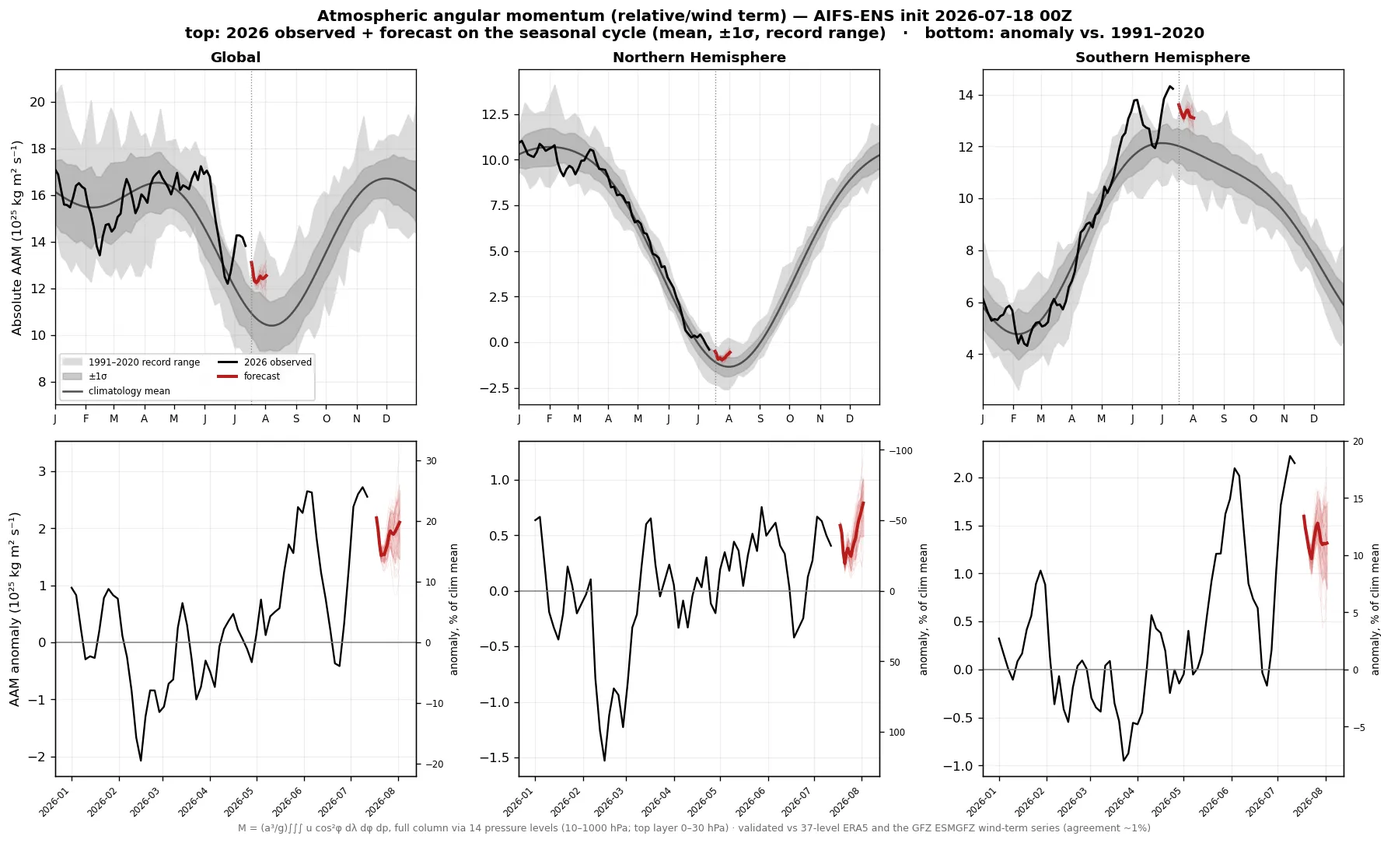
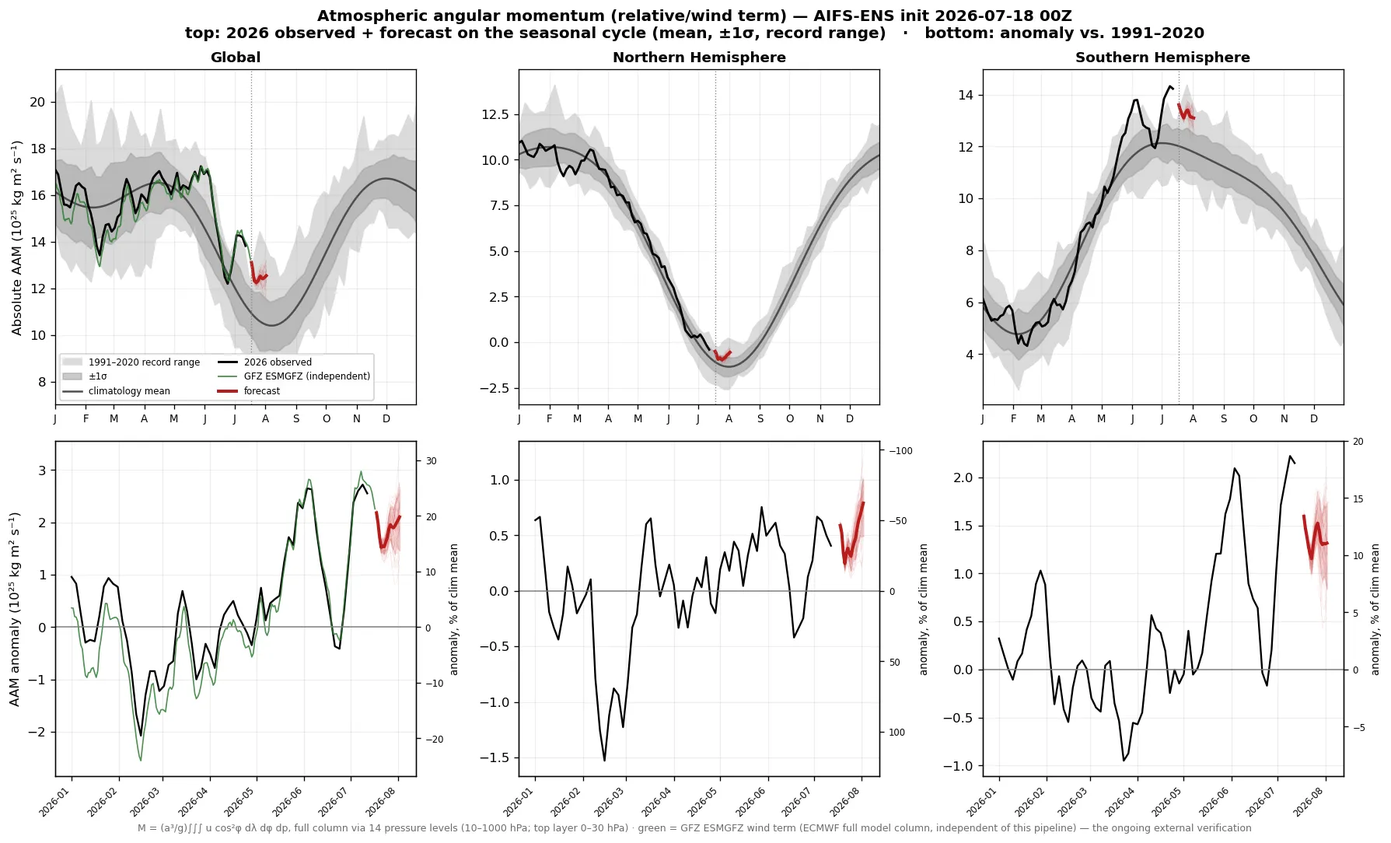
AAM figure: GFZ ESMGFZ wind-term overlay as permanent external verification
Green trace = daily-mean M_r from GFZ's operational effective-AAM series
(ECMWF full model column, fetched fresh each run, cached fallback), on the
global absolute and anomaly panels. 2026 agreement within ±0.5e25.

diff --git a/enso-analogs.html b/enso-analogs.html
@@ -564,7 +564,7 @@
         <h2>This Event vs. 1997, 2015 &amp; 2023</h2>
         <p>Niño-3.4 evolution (7-day running mean) through each event's development year and the next. Bold lines are <b>RONI</b>, the relative index (Niño-3.4 minus the 20&deg;S&ndash;20&deg;N tropical-mean anomaly), which removes the rising warming background so events decades apart are comparable; faint dotted lines are the raw <b>ONI</b> for reference. The current event is red. Note how 2015's record ONI shrinks toward 1997 once the background is removed.</p>
       </div>
-      <div class="img-wrap"><img src="assets/sst/events_nino34.webp?v=375dc67946eb" alt="Niño-3.4 RONI vs ONI evolution: current event vs 1997/2015/2023" loading="lazy"></div>
+      <div class="img-wrap"><img src="assets/sst/events_nino34.webp?v=49ed31b672d5" alt="Niño-3.4 RONI vs ONI evolution: current event vs 1997/2015/2023" loading="lazy"></div>
       <div class="chart-card-footer"><span class="chart-sources">OISST v2.1 daily &middot; 7-day mean &middot; RONI = Niño-3.4 &minus; 20&deg;S&ndash;20&deg;N mean</span></div>
     </div>
 
@@ -574,7 +574,7 @@
         <h2>El Niño Flavor: Niño Regions vs. Analogs</h2>
         <p>Relative Niño-1+2 / 3 / 3.4 / 4 anomalies (7-day mean, each minus the 20&deg;S&ndash;20&deg;N tropical mean) at the same calendar day as the latest data, for the current event and the three analogs. Removing the tropical background makes the regions comparable across events; strong eastern (1+2, 3) relative to central (4) marks an East-Pacific-flavored event.</p>
       </div>
-      <div class="img-wrap"><img src="assets/sst/events_bars.webp?v=375dc67946eb" alt="Relative Niño-region anomalies, current event vs analogs" loading="lazy"></div>
+      <div class="img-wrap"><img src="assets/sst/events_bars.webp?v=49ed31b672d5" alt="Relative Niño-region anomalies, current event vs analogs" loading="lazy"></div>
       <div class="chart-card-footer"><span class="chart-sources">OISST v2.1 daily &middot; 7-day mean &middot; relative to 20&deg;S&ndash;20&deg;N mean</span></div>
     </div>
 
@@ -584,7 +584,7 @@
         <h2>Matching-Phase SST Anomaly Maps</h2>
         <p>Relative SST anomaly (the area-weighted global-mean anomaly removed from each map) for the latest available week vs. the same calendar week in 1997, 2015 and 2023. Stripping the global mean removes the secular warming trend, so the ENSO spatial pattern is comparable across events that sat on very different baselines.</p>
       </div>
-      <div class="img-wrap"><img src="assets/sst/events_maps.webp?v=375dc67946eb" alt="Matching-phase relative SST anomaly maps (global-mean removed)" loading="lazy"></div>
+      <div class="img-wrap"><img src="assets/sst/events_maps.webp?v=49ed31b672d5" alt="Matching-phase relative SST anomaly maps (global-mean removed)" loading="lazy"></div>
       <div class="chart-card-footer"><span class="chart-sources">OISST v2.1 daily &middot; 7-day mean &middot; global-mean removed</span></div>
     </div>
 
@@ -594,7 +594,7 @@
         <h2>Subsurface Heat Content vs. Analogs</h2>
         <p>Equatorial Pacific upper-ocean (0&ndash;300 m) temperature anomaly (a heat-content proxy that leads the surface) through each event's development year and the next, current (bold red) overlaid on 1997, 2015 and 2023. The subsurface warm reservoir is the fuel for El Ni&ntilde;o; watch whether the current build-up keeps pace with the analogs.</p>
       </div>
-      <div class="img-wrap"><img src="assets/sst/subsurface_events_hc.webp?v=375dc67946eb" alt="Equatorial 0–300 m temperature-anomaly evolution: current vs 1997/2015/2023" loading="lazy"></div>
+      <div class="img-wrap"><img src="assets/sst/subsurface_events_hc.webp?v=49ed31b672d5" alt="Equatorial 0–300 m temperature-anomaly evolution: current vs 1997/2015/2023" loading="lazy"></div>
       <div class="chart-card-footer"><span class="chart-sources">NOAA/PMEL TAO/TRITON moorings &middot; anomaly vs 1991&ndash;2020 &middot; coverage varies by year</span></div>
     </div>
 
@@ -604,7 +604,7 @@
         <h2>Subsurface Heat Content vs. Analogs: De-trended</h2>
         <p>The same heat-content comparison with the 1991&ndash;2020 climate trend removed, so the four events sit on a common baseline. The net 0&ndash;300 m effect is modest (the subsurface warming and cooling trends largely cancel in the column average), but it eases the recent events (2023, current) down relative to 1997.</p>
       </div>
-      <div class="img-wrap"><img src="assets/sst/subsurface_events_hc_detrended.webp?v=375dc67946eb" alt="Equatorial 0–300 m temperature-anomaly evolution, climate trend removed: current vs 1997/2015/2023" loading="lazy"></div>
+      <div class="img-wrap"><img src="assets/sst/subsurface_events_hc_detrended.webp?v=49ed31b672d5" alt="Equatorial 0–300 m temperature-anomaly evolution, climate trend removed: current vs 1997/2015/2023" loading="lazy"></div>
       <div class="chart-card-footer"><span class="chart-sources">NOAA/PMEL TAO/TRITON moorings &middot; de-trended 1991&ndash;2020 &middot; coverage varies by year</span></div>
     </div>
 
@@ -615,7 +615,7 @@
         <p>Equatorial depth&times;longitude temperature anomaly at the same phase (~the latest data week) of each event. The eastward-deepening warm anomaly along the thermocline is the classic El Ni&ntilde;o subsurface signature; comparing its depth and intensity against 1997/2015/2023 gauges how loaded the ocean is now.</p>
         <p><b>Note:</b> TAO mooring coverage varies by year (triangles mark moorings reporting), so 1997 and 2023 have missing longitudes.</p>
       </div>
-      <div class="img-wrap"><img src="assets/sst/subsurface_events_xsec.webp?v=375dc67946eb" alt="Equatorial subsurface temperature-anomaly cross-sections: current vs 1997/2015/2023" loading="lazy"></div>
+      <div class="img-wrap"><img src="assets/sst/subsurface_events_xsec.webp?v=49ed31b672d5" alt="Equatorial subsurface temperature-anomaly cross-sections: current vs 1997/2015/2023" loading="lazy"></div>
       <div class="chart-card-footer"><span class="chart-sources">NOAA/PMEL TAO/TRITON moorings &middot; anomaly vs 1991&ndash;2020 &middot; 14-day mean &middot; coverage varies by year</span></div>
     </div>
 
@@ -626,7 +626,7 @@
         <p>The matching-phase cross-sections with the 1991&ndash;2020 climate trend removed. Because the trend has real depth&times;longitude structure (west-Pacific subsurface warming, eastern-thermocline cooling), de-trending reshapes the pattern more here than in the column-mean heat content above.</p>
         <p><b>Note:</b> TAO mooring coverage varies by year (triangles mark moorings reporting), so 1997 and 2023 have missing longitudes.</p>
       </div>
-      <div class="img-wrap"><img src="assets/sst/subsurface_events_xsec_detrended.webp?v=375dc67946eb" alt="Equatorial subsurface temperature-anomaly cross-sections, climate trend removed: current vs 1997/2015/2023" loading="lazy"></div>
+      <div class="img-wrap"><img src="assets/sst/subsurface_events_xsec_detrended.webp?v=49ed31b672d5" alt="Equatorial subsurface temperature-anomaly cross-sections, climate trend removed: current vs 1997/2015/2023" loading="lazy"></div>
       <div class="chart-card-footer"><span class="chart-sources">NOAA/PMEL TAO/TRITON moorings &middot; de-trended 1991&ndash;2020 &middot; 14-day mean &middot; coverage varies by year</span></div>
     </div>
 
@@ -636,8 +636,8 @@
         <h2>Low-Level Wind vs. Analogs: 850 hPa Hovm&ouml;ller</h2>
         <p>Equatorial (5&deg;S&ndash;5&deg;N) 850 hPa zonal wind through the <b>developing year</b> (Jan&rarr;Nov of year 0) of each El Ni&ntilde;o, aligned by calendar so the current event sits beside its analogs at the same phase. Westerly anomalies (red) over the Indian Ocean&ndash;west Pacific push warm water east and sustain a developing event; the historical analogs show those westerlies expanding eastward through the year. Left: detrended anomaly (long-term trend removed). Right: absolute wind (easterly trades vs. westerly bursts). 5-day smoothed.</p>
       </div>
-      <div class="img-wrap"><img src="assets/sst/u850_analogs_anom.webp?v=375dc67946eb" alt="850 hPa equatorial zonal-wind detrended-anomaly Hovmöllers: current 2026 vs 1982/1997/2015 developing years" loading="lazy"></div>
-      <div class="img-wrap"><img src="assets/sst/u850_analogs_abs.webp?v=375dc67946eb" alt="850 hPa equatorial zonal-wind absolute Hovmöllers: current 2026 vs 1982/1997/2015 developing years" loading="lazy"></div>
+      <div class="img-wrap"><img src="assets/sst/u850_analogs_anom.webp?v=49ed31b672d5" alt="850 hPa equatorial zonal-wind detrended-anomaly Hovmöllers: current 2026 vs 1982/1997/2015 developing years" loading="lazy"></div>
+      <div class="img-wrap"><img src="assets/sst/u850_analogs_abs.webp?v=49ed31b672d5" alt="850 hPa equatorial zonal-wind absolute Hovmöllers: current 2026 vs 1982/1997/2015 developing years" loading="lazy"></div>
       <div class="chart-card-footer"><span class="chart-sources">ERA5: WeatherBench2 1.5&deg; (1959&ndash;2023) + ARCO 0.25&deg; (current year) &middot; 5&deg;S&ndash;5&deg;N &middot; detrended vs day-of-year climatology &middot; updated daily</span></div>
     </div>
 
@@ -651,37 +651,37 @@
 
     <div class="chart-card">
       <div class="chart-card-header"><h2>Houston &amp; Dallas</h2></div>
-      <div class="img-wrap"><img src="assets/sst/citytemp/citytemp_houston.webp?v=375dc67946eb" alt="Houston daily temperature across super-El-Niño years vs 2026" loading="lazy"></div>
-      <div class="img-wrap"><img src="assets/sst/citytemp/citytemp_anom_houston.webp?v=375dc67946eb" alt="Houston detrended temperature anomaly across super-El-Niño years vs 2026" loading="lazy"></div>
-      <div class="img-wrap"><img src="assets/sst/citytemp/citytemp_dallas.webp?v=375dc67946eb" alt="Dallas daily temperature across super-El-Niño years vs 2026" loading="lazy"></div>
-      <div class="img-wrap"><img src="assets/sst/citytemp/citytemp_anom_dallas.webp?v=375dc67946eb" alt="Dallas detrended temperature anomaly across super-El-Niño years vs 2026" loading="lazy"></div>
+      <div class="img-wrap"><img src="assets/sst/citytemp/citytemp_houston.webp?v=49ed31b672d5" alt="Houston daily temperature across super-El-Niño years vs 2026" loading="lazy"></div>
+      <div class="img-wrap"><img src="assets/sst/citytemp/citytemp_anom_houston.webp?v=49ed31b672d5" alt="Houston detrended temperature anomaly across super-El-Niño years vs 2026" loading="lazy"></div>
+      <div class="img-wrap"><img src="assets/sst/citytemp/citytemp_dallas.webp?v=49ed31b672d5" alt="Dallas daily temperature across super-El-Niño years vs 2026" loading="lazy"></div>
+      <div class="img-wrap"><img src="assets/sst/citytemp/citytemp_anom_dallas.webp?v=49ed31b672d5" alt="Dallas detrended temperature anomaly across super-El-Niño years vs 2026" loading="lazy"></div>
       <div class="chart-card-footer"><span class="chart-sources">IEM ASOS (IAH, DFW) &middot; daily high&ndash;low from hourly obs &middot; anomaly detrended vs trend-adjusted 1973&ndash;present normal</span></div>
     </div>
 
     <div class="chart-card">
       <div class="chart-card-header"><h2>Phoenix &amp; Washington, DC</h2></div>
-      <div class="img-wrap"><img src="assets/sst/citytemp/citytemp_phoenix.webp?v=375dc67946eb" alt="Phoenix daily temperature across super-El-Niño years vs 2026" loading="lazy"></div>
-      <div class="img-wrap"><img src="assets/sst/citytemp/citytemp_anom_phoenix.webp?v=375dc67946eb" alt="Phoenix detrended temperature anomaly across super-El-Niño years vs 2026" loading="lazy"></div>
-      <div class="img-wrap"><img src="assets/sst/citytemp/citytemp_washington_dc.webp?v=375dc67946eb" alt="Washington DC daily temperature across super-El-Niño years vs 2026" loading="lazy"></div>
-      <div class="img-wrap"><img src="assets/sst/citytemp/citytemp_anom_washington_dc.webp?v=375dc67946eb" alt="Washington DC detrended temperature anomaly across super-El-Niño years vs 2026" loading="lazy"></div>
+      <div class="img-wrap"><img src="assets/sst/citytemp/citytemp_phoenix.webp?v=49ed31b672d5" alt="Phoenix daily temperature across super-El-Niño years vs 2026" loading="lazy"></div>
+      <div class="img-wrap"><img src="assets/sst/citytemp/citytemp_anom_phoenix.webp?v=49ed31b672d5" alt="Phoenix detrended temperature anomaly across super-El-Niño years vs 2026" loading="lazy"></div>
+      <div class="img-wrap"><img src="assets/sst/citytemp/citytemp_washington_dc.webp?v=49ed31b672d5" alt="Washington DC daily temperature across super-El-Niño years vs 2026" loading="lazy"></div>
+      <div class="img-wrap"><img src="assets/sst/citytemp/citytemp_anom_washington_dc.webp?v=49ed31b672d5" alt="Washington DC detrended temperature anomaly across super-El-Niño years vs 2026" loading="lazy"></div>
       <div class="chart-card-footer"><span class="chart-sources">IEM ASOS (PHX, DCA) &middot; daily high&ndash;low from hourly obs &middot; anomaly detrended vs trend-adjusted 1973&ndash;present normal</span></div>
     </div>
 
     <div class="chart-card">
       <div class="chart-card-header"><h2>New York City &amp; Boston</h2></div>
-      <div class="img-wrap"><img src="assets/sst/citytemp/citytemp_new_york_city.webp?v=375dc67946eb" alt="New York City daily temperature across super-El-Niño years vs 2026" loading="lazy"></div>
-      <div class="img-wrap"><img src="assets/sst/citytemp/citytemp_anom_new_york_city.webp?v=375dc67946eb" alt="New York City detrended temperature anomaly across super-El-Niño years vs 2026" loading="lazy"></div>
-      <div class="img-wrap"><img src="assets/sst/citytemp/citytemp_boston.webp?v=375dc67946eb" alt="Boston daily temperature across super-El-Niño years vs 2026" loading="lazy"></div>
-      <div class="img-wrap"><img src="assets/sst/citytemp/citytemp_anom_boston.webp?v=375dc67946eb" alt="Boston detrended temperature anomaly across super-El-Niño years vs 2026" loading="lazy"></div>
+      <div class="img-wrap"><img src="assets/sst/citytemp/citytemp_new_york_city.webp?v=49ed31b672d5" alt="New York City daily temperature across super-El-Niño years vs 2026" loading="lazy"></div>
+      <div class="img-wrap"><img src="assets/sst/citytemp/citytemp_anom_new_york_city.webp?v=49ed31b672d5" alt="New York City detrended temperature anomaly across super-El-Niño years vs 2026" loading="lazy"></div>
+      <div class="img-wrap"><img src="assets/sst/citytemp/citytemp_boston.webp?v=49ed31b672d5" alt="Boston daily temperature across super-El-Niño years vs 2026" loading="lazy"></div>
+      <div class="img-wrap"><img src="assets/sst/citytemp/citytemp_anom_boston.webp?v=49ed31b672d5" alt="Boston detrended temperature anomaly across super-El-Niño years vs 2026" loading="lazy"></div>
       <div class="chart-card-footer"><span class="chart-sources">IEM ASOS (LGA, BOS) &middot; daily high&ndash;low from hourly obs &middot; anomaly detrended vs trend-adjusted 1973&ndash;present normal</span></div>
     </div>
 
     <div class="chart-card">
       <div class="chart-card-header"><h2>Portland &amp; Seattle</h2></div>
-      <div class="img-wrap"><img src="assets/sst/citytemp/citytemp_portland_or.webp?v=375dc67946eb" alt="Portland OR daily temperature across super-El-Niño years vs 2026" loading="lazy"></div>
-      <div class="img-wrap"><img src="assets/sst/citytemp/citytemp_anom_portland_or.webp?v=375dc67946eb" alt="Portland OR detrended temperature anomaly across super-El-Niño years vs 2026" loading="lazy"></div>
-      <div class="img-wrap"><img src="assets/sst/citytemp/citytemp_seattle.webp?v=375dc67946eb" alt="Seattle daily temperature across super-El-Niño years vs 2026" loading="lazy"></div>
-      <div class="img-wrap"><img src="assets/sst/citytemp/citytemp_anom_seattle.webp?v=375dc67946eb" alt="Seattle detrended temperature anomaly across super-El-Niño years vs 2026" loading="lazy"></div>
+      <div class="img-wrap"><img src="assets/sst/citytemp/citytemp_portland_or.webp?v=49ed31b672d5" alt="Portland OR daily temperature across super-El-Niño years vs 2026" loading="lazy"></div>
+      <div class="img-wrap"><img src="assets/sst/citytemp/citytemp_anom_portland_or.webp?v=49ed31b672d5" alt="Portland OR detrended temperature anomaly across super-El-Niño years vs 2026" loading="lazy"></div>
+      <div class="img-wrap"><img src="assets/sst/citytemp/citytemp_seattle.webp?v=49ed31b672d5" alt="Seattle daily temperature across super-El-Niño years vs 2026" loading="lazy"></div>
+      <div class="img-wrap"><img src="assets/sst/citytemp/citytemp_anom_seattle.webp?v=49ed31b672d5" alt="Seattle detrended temperature anomaly across super-El-Niño years vs 2026" loading="lazy"></div>
       <div class="chart-card-footer"><span class="chart-sources">IEM ASOS (PDX, SEA) &middot; daily high&ndash;low from hourly obs &middot; anomaly detrended vs trend-adjusted 1973&ndash;present normal</span></div>
     </div>
 

diff --git a/enso-atmosphere.html b/enso-atmosphere.html
@@ -319,7 +319,7 @@
         <h2>Southern Oscillation Index Forecast</h2>
         <p>Extending the observed SOI forward: the same Troup SOI (the standardized Tahiti&minus;Darwin sea-level-pressure difference), here forecast from the combined AIFS-ENS + IFS-ENS ensemble (about 100 members). Observed values are from LongPaddock (Queensland Govt / BoM); the forecast is the Tahiti&minus;Darwin MSL from the ensembles, bias-corrected to the recent observed level. Bold lines are the 30-day running SOI; the faint daily series and shaded 10&ndash;90% band show the day-to-day spread. Sustained negative SOI (below &minus;7) is El Ni&ntilde;o-favorable; sustained positive (above +7) is La Ni&ntilde;a-favorable.</p>
       </div>
-      <div class="img-wrap"><img src="assets/sst/soi_forecast.webp?v=375dc67946eb" alt="Southern Oscillation Index: observed (LongPaddock/BoM) plus AIFS-ENS/IFS-ENS forecast" loading="lazy"></div>
+      <div class="img-wrap"><img src="assets/sst/soi_forecast.webp?v=49ed31b672d5" alt="Southern Oscillation Index: observed (LongPaddock/BoM) plus AIFS-ENS/IFS-ENS forecast" loading="lazy"></div>
       <div class="chart-card-footer"><span class="chart-sources">LongPaddock daily SOI (BoM, 1933&ndash;1992 base) &middot; forecast: ECMWF AIFS-ENS + IFS-ENS MSL &middot; updated each 00/12Z cycle</span></div>
     </div>
 
@@ -350,7 +350,7 @@
         <h2>Equatorial Pacific 10 m Wind Forecast</h2>
         <p>Forecast 10 m zonal-wind anomaly (5&deg;S&ndash;5&deg;N), longitude &times; forecast day, from the AIFS-ENS (AI) and ECMWF IFS-ENS (physics) ensemble means versus the ERA5 1991&ndash;2020 climatology. Westerly (red) anomalies along the equator favor El Ni&ntilde;o development; easterly (blue) anomalies favor La Ni&ntilde;a. Agreement between the AI and physics ensembles raises confidence.</p>
       </div>
-      <div class="img-wrap"><img src="assets/sst/eq_wind_hovmoller.webp?v=375dc67946eb" alt="Equatorial Pacific 10 m zonal-wind anomaly Hovmöller forecast (AIFS-ENS and IFS-ENS)" loading="lazy"></div>
+      <div class="img-wrap"><img src="assets/sst/eq_wind_hovmoller.webp?v=49ed31b672d5" alt="Equatorial Pacific 10 m zonal-wind anomaly Hovmöller forecast (AIFS-ENS and IFS-ENS)" loading="lazy"></div>
       <div class="chart-card-footer"><span class="chart-sources">ECMWF AIFS-ENS &amp; IFS-ENS (open data) &middot; anomaly vs ERA5 1991&ndash;2020 &middot; updated each 00/12Z cycle</span></div>
     </div>
 
@@ -416,9 +416,9 @@
     <div class="chart-card">
       <div class="chart-card-header">
         <h2>Atmospheric Angular Momentum</h2>
-        <p>Relative AAM is the angular momentum carried by the winds, the atmosphere's total westerly momentum, &int;&nbsp;u&middot;cos&sup2;&phi; over the whole globe. It is dominated by the upper-tropospheric subtropical jets and the deep tropics (largest moment arm), shown here for the globe and each hemisphere from the AIFS-ENS winds on 14 pressure levels (10&ndash;1000&nbsp;hPa &mdash; the full column, validated against the 37-level ERA5 integral and GFZ's ESMGFZ wind-term series to ~1%). The top panel is this year's observed AAM (black) and the 15-day forecast (red) on the climatological annual cycle; the hemispheres are strongly out of phase (each peaks in its own winter). The bottom panel is the anomaly (departure from the 1991&ndash;2020 normal), which removes the seasonal cycle. El&nbsp;Ni&ntilde;o strengthens the subtropical jets and weakens the trades, so the atmosphere holds more westerly momentum; AAM also ties to length of day.</p>
+        <p>Relative AAM is the angular momentum carried by the winds, the atmosphere's total westerly momentum, &int;&nbsp;u&middot;cos&sup2;&phi; over the whole globe. It is dominated by the upper-tropospheric subtropical jets and the deep tropics (largest moment arm), shown here for the globe and each hemisphere from the AIFS-ENS winds on 14 pressure levels (10&ndash;1000&nbsp;hPa &mdash; the full column, validated against the 37-level ERA5 integral and GFZ's ESMGFZ wind-term series to ~1%). The top panel is this year's observed AAM (black) and the 15-day forecast (red) on the climatological annual cycle; the hemispheres are strongly out of phase (each peaks in its own winter). The bottom panel is the anomaly (departure from the 1991&ndash;2020 normal), which removes the seasonal cycle. El&nbsp;Ni&ntilde;o strengthens the subtropical jets and weakens the trades, so the atmosphere holds more westerly momentum; conservation then requires the solid Earth to slow, so AAM ties directly to the measured length of day. The <span style="color:#2e7d32"><b>green trace</b></span> is GFZ's independent ESMGFZ wind-term series (computed from ECMWF's operational analyses for the Earth-rotation community) &mdash; a continuous external check on this pipeline.</p>
       </div>
-      <div class="img-wrap"><img src="assets/sst/aam.webp?v=375dc67946eb" alt="Global and hemispheric atmospheric angular momentum: observed + AIFS-ENS forecast, absolute and anomaly" loading="lazy"></div>
+      <div class="img-wrap"><img src="assets/sst/aam.webp?v=49ed31b672d5" alt="Global and hemispheric atmospheric angular momentum: observed + AIFS-ENS forecast, absolute and anomaly" loading="lazy"></div>
       <div class="chart-card-footer"><span class="chart-sources">Forecast: ECMWF AIFS-ENS (open data, CC BY 4.0) &middot; climatology &amp; this-year observed: ERA5 (Copernicus C3S / ECMWF) &middot; updated daily</span></div>
     </div>
 
@@ -427,7 +427,7 @@
       <div class="chart-card-header">
         <h2>AAM Forecast Trend (run-to-run)</h2>
       </div>
-      <div class="img-wrap"><img src="assets/sst/aam_trend.webp?v=375dc67946eb" alt="Run-to-run trend of AIFS-ENS ensemble-mean AAM anomaly forecasts, global and hemispheric" loading="lazy"></div>
+      <div class="img-wrap"><img src="assets/sst/aam_trend.webp?v=49ed31b672d5" alt="Run-to-run trend of AIFS-ENS ensemble-mean AAM anomaly forecasts, global and hemispheric" loading="lazy"></div>
       <div class="chart-card-footer"><span class="chart-sources">ECMWF AIFS-ENS (open data, CC BY 4.0) &middot; anomaly vs ERA5 1991&ndash;2020 (Copernicus C3S) &middot; archived each cycle</span></div>
     </div>
 
@@ -442,10 +442,10 @@
       </div>
       <iframe class="anim-embed torque" src="sst_anim.html?embed=1&amp;manifest=torque_manifest.json&amp;region=torque"
               title="AAM surface-torque anomaly animation (friction + mountain) over the AIFS-ENS forecast" loading="lazy"></iframe>
-      <div class="img-wrap"><img src="assets/sst/torque_timeseries.webp?v=375dc67946eb" alt="Hemispheric AAM torque budget time series (friction, mountain, sum) for NH and SH" loading="lazy"></div>
-      <div class="img-wrap"><img src="assets/sst/torque_ranges.webp?v=375dc67946eb" alt="Mountain-torque anomaly broken down by range (Himalaya, Rockies, Andes, Greenland, Antarctica, Alps)" loading="lazy"></div>
-      <div class="img-wrap"><img src="assets/sst/torque_seasonal.webp?v=375dc67946eb" alt="Seasonal cycle of the three AAM surface-torque terms (friction, mountain, GWD) by latitude, ERA5 1991-2020" loading="lazy"></div>
-      <div class="img-wrap"><img src="assets/sst/torque_seasonal_ts.webp?v=375dc67946eb" alt="Seasonal cycle of the integrated AAM torque terms (friction, mountain, GWD, sum) for Global/NH/SH, ERA5 1991-2020" loading="lazy"></div>
+      <div class="img-wrap"><img src="assets/sst/torque_timeseries.webp?v=49ed31b672d5" alt="Hemispheric AAM torque budget time series (friction, mountain, sum) for NH and SH" loading="lazy"></div>
+      <div class="img-wrap"><img src="assets/sst/torque_ranges.webp?v=49ed31b672d5" alt="Mountain-torque anomaly broken down by range (Himalaya, Rockies, Andes, Greenland, Antarctica, Alps)" loading="lazy"></div>
+      <div class="img-wrap"><img src="assets/sst/torque_seasonal.webp?v=49ed31b672d5" alt="Seasonal cycle of the three AAM surface-torque terms (friction, mountain, GWD) by latitude, ERA5 1991-2020" loading="lazy"></div>
+      <div class="img-wrap"><img src="assets/sst/torque_seasonal_ts.webp?v=49ed31b672d5" alt="Seasonal cycle of the integrated AAM torque terms (friction, mountain, GWD, sum) for Global/NH/SH, ERA5 1991-2020" loading="lazy"></div>
       <div class="chart-card-footer"><span class="chart-sources">ECMWF AIFS-ENS surface pressure (open data, CC BY 4.0) &middot; ERA5 orography + 1991–2020 torque climatology (Copernicus C3S, seasonal-cycle panel) &middot; daily means &middot; updated daily</span></div>
     </div>
 
@@ -494,7 +494,7 @@
       </div>
       <iframe class="anim-embed jets" src="sst_anim.html?embed=1&amp;manifest=jets_manifest.json&amp;region=jets"
               title="Subtropical jet forecast animation: zonal-mean wind anomaly cross-section, day 0-15 from AIFS-ENS" loading="lazy"></iframe>
-      <div class="img-wrap"><img src="assets/sst/jets.webp?v=375dc67946eb" alt="Subtropical jet monitor: zonal-mean wind cross-section anomaly and jet-core strength/latitude forecast vs ERA5 climatology" loading="lazy"></div>
+      <div class="img-wrap"><img src="assets/sst/jets.webp?v=49ed31b672d5" alt="Subtropical jet monitor: zonal-mean wind cross-section anomaly and jet-core strength/latitude forecast vs ERA5 climatology" loading="lazy"></div>
       <div class="chart-card-footer"><span class="chart-sources">ECMWF AIFS-ENS 13-level zonal wind, 51 members (open data, CC BY 4.0) &middot; clim: ERA5 1991&ndash;2020 harmonic day-of-year normal &plusmn;1&sigma; (WeatherBench2 / Copernicus C3S) &middot; updated daily</span></div>
     </div>
 

diff --git a/sst.html b/sst.html
@@ -214,7 +214,7 @@
     </div>
     <div id="dailyChart" class="plot" style="height:440px"></div>
     <div class="img-wrap" id="dailyFallback" hidden>
-      <img src="assets/sst/daily_indices.webp?v=375dc67946eb" alt="Daily Niño-3.4, tropical-mean and relative SST indices" loading="lazy">
+      <img src="assets/sst/daily_indices.webp?v=49ed31b672d5" alt="Daily Niño-3.4, tropical-mean and relative SST indices" loading="lazy">
     </div>
     <div class="chart-card-footer">
       <span class="chart-sources">NOAA OISST v2.1 daily &middot; cosine-weighted box means &middot; base 1991&ndash;2020 &middot; RONI scale: per-month &sigma;(ONI)/&sigma;(relative), CPC/ECMWF method</span>
@@ -232,7 +232,7 @@
     &plusmn;0.5&thinsp;&deg;C are El&nbsp;Ni&ntilde;o&nbsp;/&nbsp;La&nbsp;Ni&ntilde;a territory.</p>
     <div id="monthlyChart" class="plot" style="height:340px"></div>
     <div class="img-wrap" id="monthlyFallback" hidden>
-      <img src="assets/sst/roni.webp?v=375dc67946eb" alt="ONI and RONI monthly time series" loading="lazy">
+      <img src="assets/sst/roni.webp?v=49ed31b672d5" alt="ONI and RONI monthly time series" loading="lazy">
     </div>
     <div class="chart-card-footer">
       <span class="chart-sources">Computed from NOAA OISST v2.1 &middot; 3-month centered means &middot; newest season still accumulating</span>
@@ -278,7 +278,7 @@
       <h2>Daily SOI: the Current Event vs the Record</h2>
       <p><b>150 years of the Southern Oscillation, with today marked against the records.</b> <b>Top</b>: the Bureau of Meteorology's monthly Troup SOI computed one way from <b>1876 to the present</b> &mdash; monthly (light) and 3-month mean (bold), with dotted record lines: the all-time monthly extremes were set in Apr&nbsp;1905 (&minus;42.6) and Aug&nbsp;1917 (+34.8). <b>Middle</b>: the consistent <b>daily</b> record &mdash; LongPaddock's daily Troup index (10&middot;(&Delta;P&nbsp;&minus;&nbsp;m)/&sigma;, &Delta;P = Tahiti&nbsp;&minus;&nbsp;Darwin MSLP, fixed 1887&ndash;1989 base), June&nbsp;1991&ndash;present, as 30-day and 90-day running means with their own record max/min lines (1997&ndash;98 holds the 30-day minimum; 2010&ndash;11 the positive records). <b>Bottom</b>: the last 24 months with raw daily values as bars. Sustained values below &minus;8 are the classic Troup El&nbsp;Ni&ntilde;o threshold; the record lines show at a glance how the current excursion ranks in a century and a half of data.</p>
     </div>
-    <div class="img-wrap"><img src="assets/sst/soi_history.webp?v=375dc67946eb" alt="Daily SOI history: 30-day and 90-day running means with all-time record max/min lines" loading="lazy"></div>
+    <div class="img-wrap"><img src="assets/sst/soi_history.webp?v=49ed31b672d5" alt="Daily SOI history: 30-day and 90-day running means with all-time record max/min lines" loading="lazy"></div>
     <div class="chart-card-footer">
       <span class="chart-sources">Queensland Govt LongPaddock / BoM daily Troup SOI &middot; fixed 1887&ndash;1989 base &middot; updated each cycle</span>
     </div>
@@ -291,22 +291,22 @@
       <p>NOAA PSL's Multivariate ENSO Index v2 is the leading combined-EOF of five tropical-Pacific fields (sea-level pressure, SST, surface zonal and meridional wind, and OLR), but it is published only as an overlapping bimonthly value with a roughly five-week lag. This is a daily nowcast of it: a regression of the published MEI.v2 onto freely-available daily ENSO components (the Ni&ntilde;o-3.4 SST anomaly, the Southern Oscillation Index, and the equatorial 850-hPa zonal wind), driven forward each day. The grey steps are the official bimonthly MEI.v2; the red line is the daily estimate, with a &plusmn;0.30 leave-one-year-out cross-validation band (the fit reproduces MEI.v2 at R&nbsp;=&nbsp;0.94). The model is SST-weighted, so during a fast SST-led transition it can lead MEI's slower atmospheric components.</p>
     </div>
     <div class="img-wrap">
-      <img src="assets/sst/mei/mei_nowcast.webp?v=375dc67946eb"
+      <img src="assets/sst/mei/mei_nowcast.webp?v=49ed31b672d5"
            alt="Daily nowcast of the Multivariate ENSO Index version 2" loading="lazy">
     </div>
     <div class="img-wrap">
       <p class="img-label">Onset-year analogs: the current year against the major El Ni&ntilde;os</p>
-      <img src="assets/sst/mei/mei_analogs.webp?v=375dc67946eb"
+      <img src="assets/sst/mei/mei_analogs.webp?v=49ed31b672d5"
            alt="MEI.v2 onset-year analogs: 1982, 1997, 2015, 2023 vs the current nowcast" loading="lazy">
     </div>
     <div class="img-wrap">
       <p class="img-label">Full record since 1980</p>
-      <img src="assets/sst/mei/mei_history.webp?v=375dc67946eb"
+      <img src="assets/sst/mei/mei_history.webp?v=49ed31b672d5"
            alt="Full Multivariate ENSO Index v2 record since 1980 with the live nowcast tail" loading="lazy">
     </div>
     <div class="img-wrap">
       <p class="img-label">Out-of-sample skill: the 2015&ndash;16 El Ni&ntilde;o</p>
-      <img src="assets/sst/mei/mei_validation.webp?v=375dc67946eb"
+      <img src="assets/sst/mei/mei_validation.webp?v=49ed31b672d5"
            alt="Validation of the MEI.v2 nowcast over the 2015-16 El Niño" loading="lazy">
     </div>
     <div class="chart-card-footer">
@@ -588,7 +588,7 @@
       if (state.data) drawDaily();
     });
   });
-  fetch("assets/sst/data/enso_daily.json?v=375dc67946eb")
+  fetch("assets/sst/data/enso_daily.json?v=49ed31b672d5")
     .then(function (r) { if (!r.ok) throw 0; return r.json(); })
     .then(function (d) {
       state.data = d;

diff --git a/scripts/sst/pages/atmosphere.html b/scripts/sst/pages/atmosphere.html
@@ -145,7 +145,7 @@
     <div class="chart-card">
       <div class="chart-card-header">
         <h2>Atmospheric Angular Momentum</h2>
-        <p>Relative AAM is the angular momentum carried by the winds, the atmosphere's total westerly momentum, &int;&nbsp;u&middot;cos&sup2;&phi; over the whole globe. It is dominated by the upper-tropospheric subtropical jets and the deep tropics (largest moment arm), shown here for the globe and each hemisphere from the AIFS-ENS winds on 14 pressure levels (10&ndash;1000&nbsp;hPa &mdash; the full column, validated against the 37-level ERA5 integral and GFZ's ESMGFZ wind-term series to ~1%). The top panel is this year's observed AAM (black) and the 15-day forecast (red) on the climatological annual cycle; the hemispheres are strongly out of phase (each peaks in its own winter). The bottom panel is the anomaly (departure from the 1991&ndash;2020 normal), which removes the seasonal cycle. El&nbsp;Ni&ntilde;o strengthens the subtropical jets and weakens the trades, so the atmosphere holds more westerly momentum; AAM also ties to length of day.</p>
+        <p>Relative AAM is the angular momentum carried by the winds, the atmosphere's total westerly momentum, &int;&nbsp;u&middot;cos&sup2;&phi; over the whole globe. It is dominated by the upper-tropospheric subtropical jets and the deep tropics (largest moment arm), shown here for the globe and each hemisphere from the AIFS-ENS winds on 14 pressure levels (10&ndash;1000&nbsp;hPa &mdash; the full column, validated against the 37-level ERA5 integral and GFZ's ESMGFZ wind-term series to ~1%). The top panel is this year's observed AAM (black) and the 15-day forecast (red) on the climatological annual cycle; the hemispheres are strongly out of phase (each peaks in its own winter). The bottom panel is the anomaly (departure from the 1991&ndash;2020 normal), which removes the seasonal cycle. El&nbsp;Ni&ntilde;o strengthens the subtropical jets and weakens the trades, so the atmosphere holds more westerly momentum; conservation then requires the solid Earth to slow, so AAM ties directly to the measured length of day. The <span style="color:#2e7d32"><b>green trace</b></span> is GFZ's independent ESMGFZ wind-term series (computed from ECMWF's operational analyses for the Earth-rotation community) &mdash; a continuous external check on this pipeline.</p>
       </div>
       <div class="img-wrap"><img src="assets/sst/aam.webp?v=__CACHE__" alt="Global and hemispheric atmospheric angular momentum: observed + AIFS-ENS forecast, absolute and anomaly" loading="lazy"></div>
       <div class="chart-card-footer"><span class="chart-sources">Forecast: ECMWF AIFS-ENS (open data, CC BY 4.0) &middot; climatology &amp; this-year observed: ERA5 (Copernicus C3S / ECMWF) &middot; updated daily</span></div>

diff --git a/enso-forecasts.html b/enso-forecasts.html
@@ -570,11 +570,11 @@
   });
 
   Promise.all([
-    fetch("assets/sst/data/enso_forecast.json?v=375dc67946eb").then(function (r) {
+    fetch("assets/sst/data/enso_forecast.json?v=49ed31b672d5").then(function (r) {
       if (!r.ok) throw 0; return r.json(); }),
-    fetch("assets/sst/data/nino_history.json?v=375dc67946eb").then(function (r) {
+    fetch("assets/sst/data/nino_history.json?v=49ed31b672d5").then(function (r) {
       return r.ok ? r.json() : null; }).catch(function () { return null; }),
-    fetch("assets/sst/data/enso_daily.json?v=375dc67946eb").then(function (r) {
+    fetch("assets/sst/data/enso_daily.json?v=49ed31b672d5").then(function (r) {
       return r.ok ? r.json() : null; }).catch(function () { return null; }),
   ]).then(function (res) {
     state.fc = res[0]; state.hist = res[1]; state.dailyFeed = res[2];
